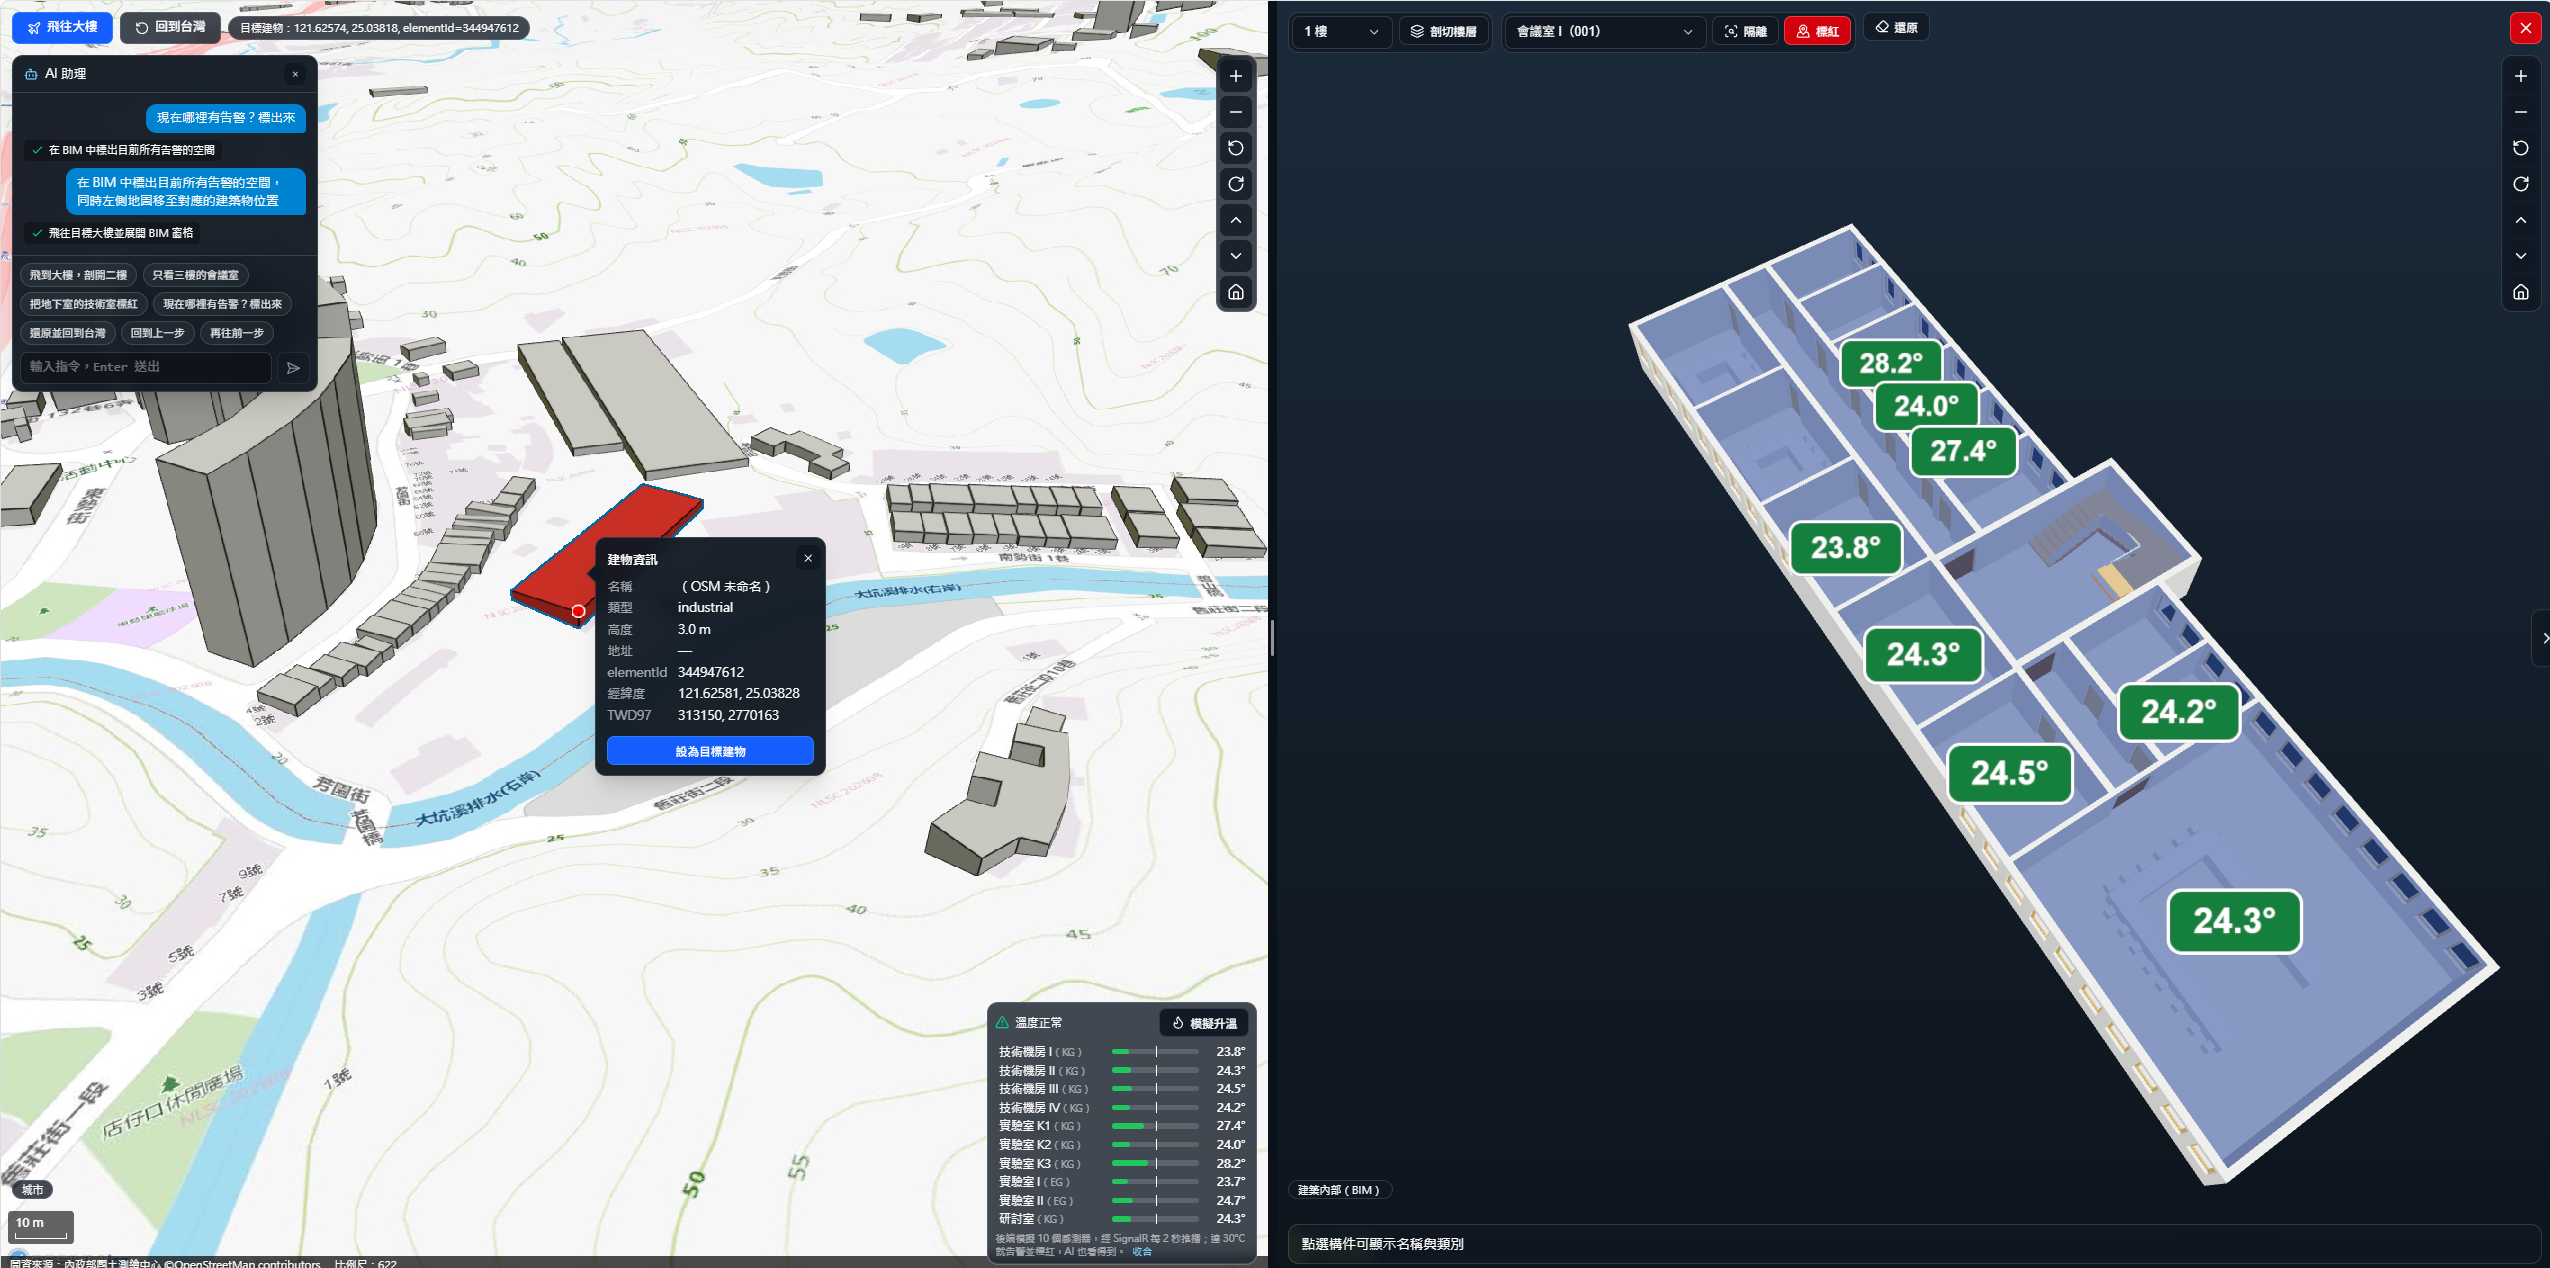
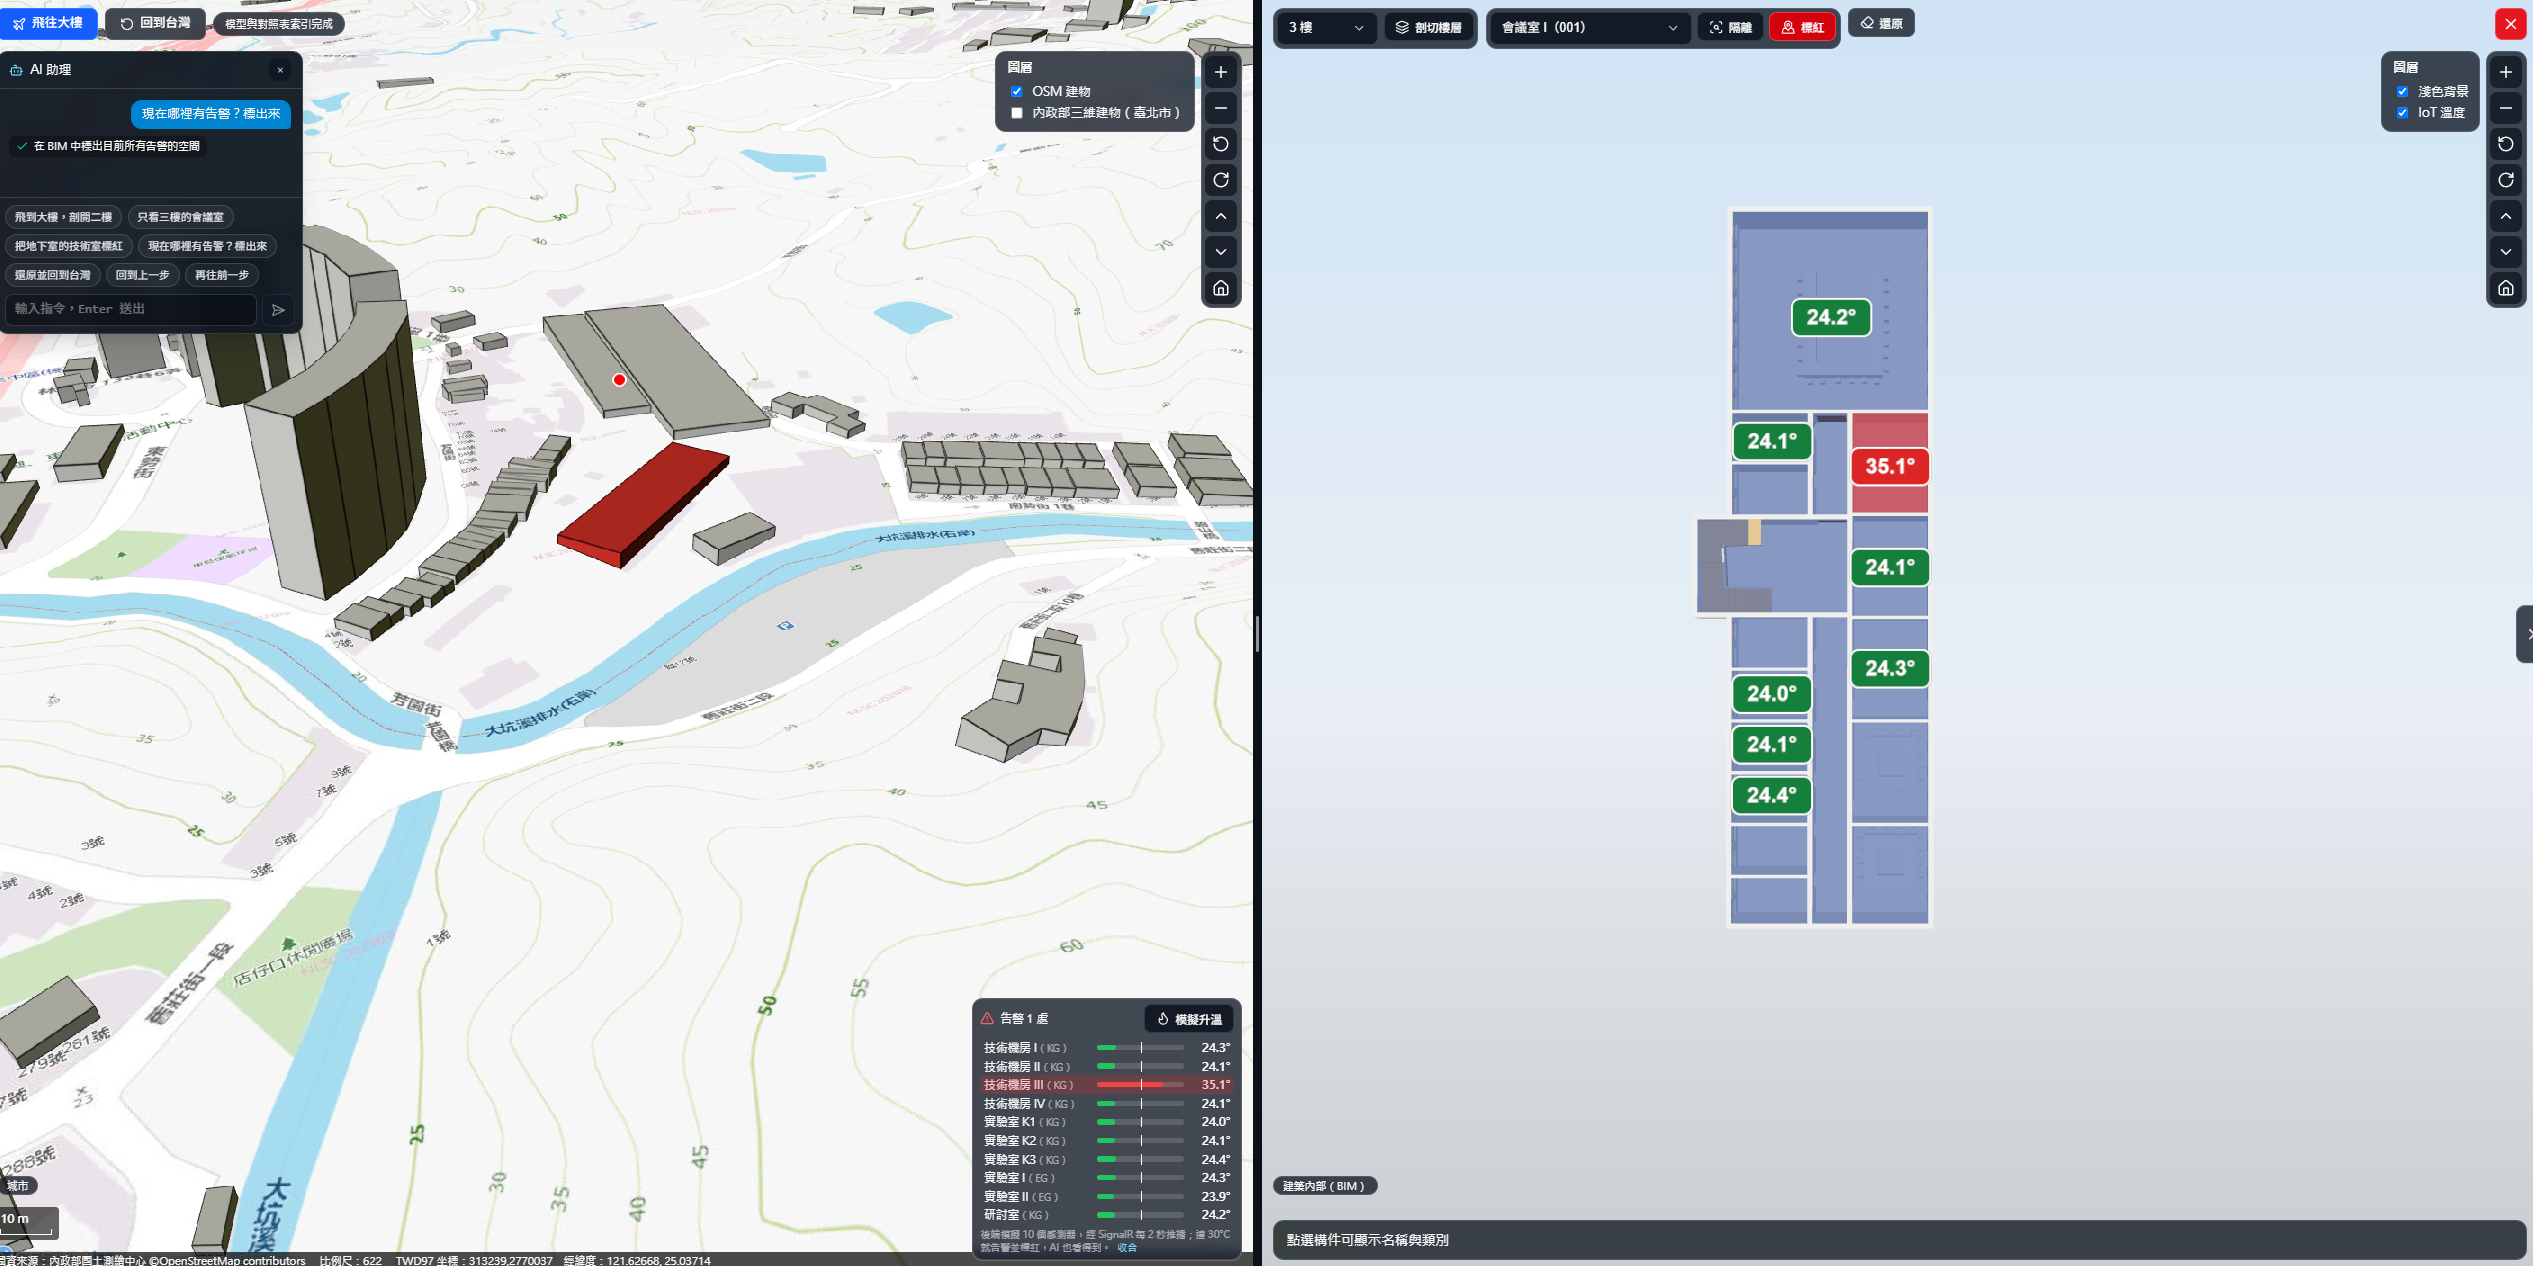
README: move portfolio note to the end, update demo screenshot

diff --git a/README.md b/README.md
@@ -6,8 +6,6 @@
 
 用中文對 AI 下指令，畫面就從台灣地圖飛進一棟建築，剖開樓層、找到房間。建築裡模擬的溫度感測器每 2 秒更新一次，超過門檻的房間自動標紅；問 AI「哪裡有告警」，它也答得出來。
 
-這是個人作品集的概念驗證。建築模型、建物位置與感測資料都不是真實量測，和工業級數位雙生的差別見[工業級精度與本專案規格的差別](#工業級精度與本專案規格的差別)。
-
 ![網頁畫面：左側地圖、右側 BIM 模型、對話窗與感測器面板](docs/images/demo.png)
 
 ## 這是什麼
@@ -62,14 +60,10 @@ docker compose up --build
 | 4 | 現在哪裡有告警？標出來 | AI 說出告警的房間與溫度，BIM 隔離並標紅這些房間 |
 | 5 | 請帶我看技術機房，並幫我剖切到該樓層 | 一句話完成三步：飛到大樓、剖切地下室、隔離 4 間技術機房 |
 
-- **情境 4 沒有告警時**，先按感測器面板的「模擬升溫」，等幾秒溫度升過 30°C 再問。
-- **情境 2、3 驗證樓層換算。** 模型是德國建築，台灣的 1 樓是德國的 Erdgeschoss，2 樓才是 1. Obergeschoss。
-- **情境 3、5 驗證中文對德文房名**，例如「技術機房」要對到 `Technikraum`。
-- 「回到上一步」「再往前一步」「還原並回到台灣」也都可以說。點感測器面板的某一列，會直接隔離那個房間。
+- **情境 沒有告警時**，先按感測器面板的「模擬升溫」，等幾秒溫度升過 30°C 再問。
+
 
 ## 概念說明
-
-這一章給不熟悉背景的讀者，不需要工程知識。
 
 ### 什麼是數位雙生
 
@@ -93,7 +87,7 @@ docker compose up --build
 |---|---|---|
 | 地理 | 它在哪裡？周圍是什麼？ | Cesium 3D 地球，疊上國土測繪中心的電子地圖、OSM 3D 建物與地形；滑鼠位置換算成 TWD97 坐標 |
 | 建築 | 它長什麼樣？有哪些樓層、房間？ | IFC 模型（營建業的開放標準格式）直接在瀏覽器解析與顯示，可剖切樓層、隔離房間、標紅 |
-| 語意 | 「三樓的廁所」是模型裡的哪幾個物件？ | 一份對照表：5 個樓層、26 間空間，每筆有短代號（key）、IFC 的 GlobalId、德文名、中文名與常見說法 |
+| 語意 | 「三樓的廁所」是模型裡的哪幾個物件？ | 一份對照表：5 個樓層、26 間空間，每筆有短代號（key）、IFC 的 GlobalId、中文名與常見說法 |
 | 狀態 | 它現在怎麼樣？ | 後端模擬 10 個溫度感測器，掛在對照表的空間上，每 2 秒推播一次；達 30°C 告警 |
 | 互動 | 我要怎麼問、怎麼看？ | 用中文對 AI 說，AI 把話轉成操作畫面的指令 |
 
@@ -111,7 +105,7 @@ docker compose up --build
 
 感測器的告警走另一條路，不經過 AI：
 
-1. 後端每 2 秒更新 10 個溫度，經 SignalR 推給所有開著的畫面。
+1. 後端每 2 秒更新 10 個溫度，經 SignalR 推撥給所有開著的畫面。
 2. 溫度達 30°C，**程式**就把房間標紅、在面板列出，並把溫度牌變紅。門檻是寫在程式裡的數字，不是 AI 判斷的。
 3. 你問「哪裡有告警」時，後端把同一份告警清單附給模型，模型照清單回答。
 
@@ -149,11 +143,11 @@ docker compose up --build
 
 它扮演三個角色：
 
-1. **翻譯：** 把口語中文轉成有結構的指令。「二樓」要換成德國的 1. Obergeschoss（`OG1`），「技術機房」要對到 `Technikraum` 的 4 間房。
+1. **翻譯：** 把口語中文轉成有結構的指令。「二樓」要換成元件 1. Obergeschoss（`OG1`），「技術機房」要對到 `Technikraum` 的 4 間房。
 2. **調度：** 把一句複合指令拆成有順序的多個動作，例如先飛過去、再剖切、再隔離。
 3. **解說：** 根據後端給的告警清單，用中文房名與溫度回答「哪裡有告警」；使用者要求標出來時，再呼叫標示告警的工具。
 
-它不做、也做不到的事：
+它不做、暫時也做不到的事：
 
 - **不產生數據。** 溫度由後端模擬器產生，模型只讀得到附在請求裡的告警清單。
 - **不判斷告警。** 30°C 門檻寫在程式裡；房間自動標紅是程式做的，AI 不在這條路上。
@@ -231,7 +225,7 @@ flowchart LR
 
 ### AI 工具與 System Prompt
 
-System Prompt 有三部分：角色與規則、樓層換算（台灣 1 樓 = Erdgeschoss）、樓層與空間對照表全文，整段標記 `cache_control`（命中率未量測）。每次請求另外附上一段不快取的「目前的告警清單」，取自後端的 `SensorSimulator.Alerts()`，與推給前端的是同一份狀態。
+System Prompt 有三部分：角色與規則、樓層換算、樓層與空間對照表全文，整段標記 `cache_control`（命中率未量測）。每次請求另外附上一段不快取的「目前的告警清單」，取自後端的 `SensorSimulator.Alerts()`，與推給前端的是同一份狀態。
 
 | 工具 | 參數 | 前端做什麼 |
 |---|---|---|
@@ -360,7 +354,7 @@ MIT
 
 ## 備註：作品集與技術棧
 
-這是個人作品集專案，目的是展示如何把地理、建築、感測與 AI 串成一個戰情室畫面：只用開放格式與開源套件，在極簡 MVP 的範圍（5 個 Stage）內做出能完整展示的流程，並把它和工業級數位雙生的差距寫清楚。
+這是個人作品集的概念驗證。建築模型、建物位置與感測資料都不是真實量測，和工業級數位雙生的差別見[工業級精度與本專案規格的差別](#工業級精度與本專案規格的差別)。目的是展示如何把地理、建築、感測與 AI 串成一個戰情室畫面：只用開放格式與開源套件，在極簡 MVP 的範圍（5 個 Stage）內做出能完整展示的流程，並把它和工業級數位雙生的差距寫清楚。
 
 - 前端：Vue 3、TypeScript、Vite、CesiumJS、That Open Components、web-ifc（WASM）、Three.js、Tailwind CSS、reka-ui
 - 後端：.NET 9、ASP.NET Core Minimal API、SignalR
@@ -375,8 +369,6 @@ MIT
 [中文](#ai-空間智慧數位雙生戰情室)
 
 Give an AI instructions in Chinese and the view flies from a map of Taiwan into a building, cuts open a floor and finds a room. Simulated temperature sensors in the building update every 2 seconds; rooms over the threshold turn red automatically, and the AI can tell you where the alerts are.
-
-This is a personal portfolio proof of concept. The building model, the building's location and the sensor data are not real measurements; how this differs from an industrial digital twin is explained in [Industrial-grade precision vs. this project](#industrial-grade-precision-vs-this-project).
 
 ### What is this
 
@@ -728,7 +720,7 @@ MIT
 
 ### Notes: portfolio and tech stack
 
-This is a personal portfolio project that shows how geography, buildings, sensors and AI can be joined into one operations-room view: open formats and open-source packages only, a complete demo flow within a minimal MVP scope (5 stages), and an honest account of the gap to an industrial digital twin.
+This is a personal portfolio proof of concept. The building model, the building's location and the sensor data are not real measurements; how this differs from an industrial digital twin is explained in [Industrial-grade precision vs. this project](#industrial-grade-precision-vs-this-project). It shows how geography, buildings, sensors and AI can be joined into one operations-room view: open formats and open-source packages only, a complete demo flow within a minimal MVP scope (5 stages), and an honest account of the gap to an industrial digital twin.
 
 - Frontend: Vue 3, TypeScript, Vite, CesiumJS, That Open Components, web-ifc (WASM), Three.js, Tailwind CSS, reka-ui
 - Backend: .NET 9, ASP.NET Core Minimal API, SignalR
